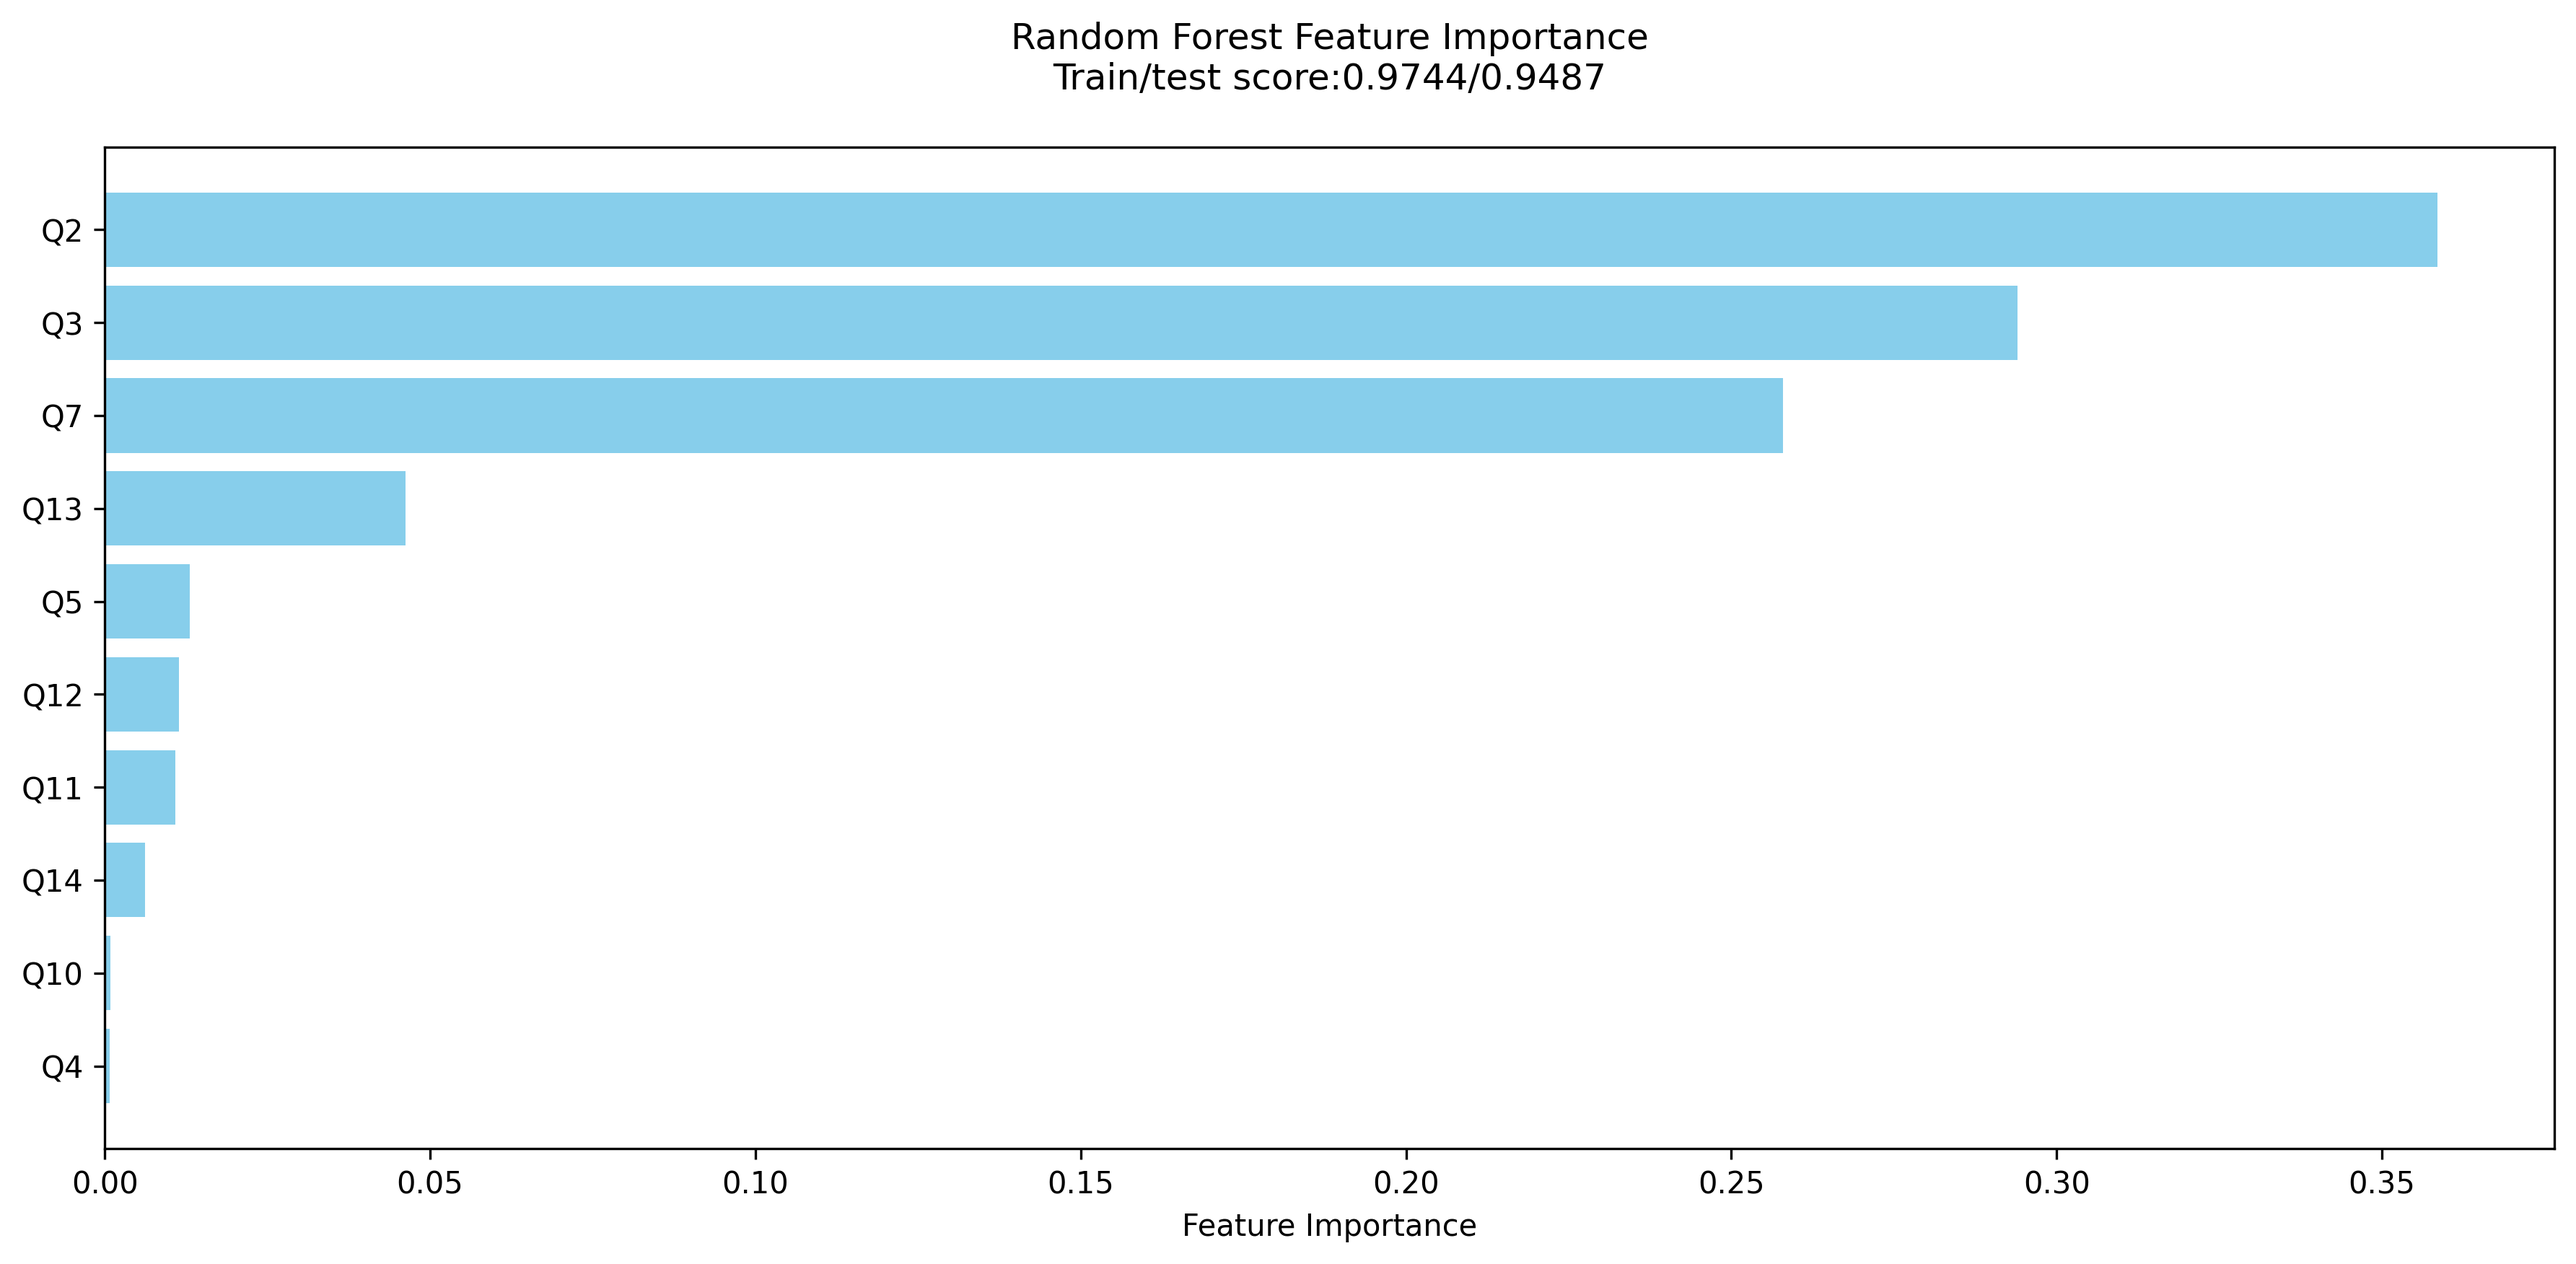
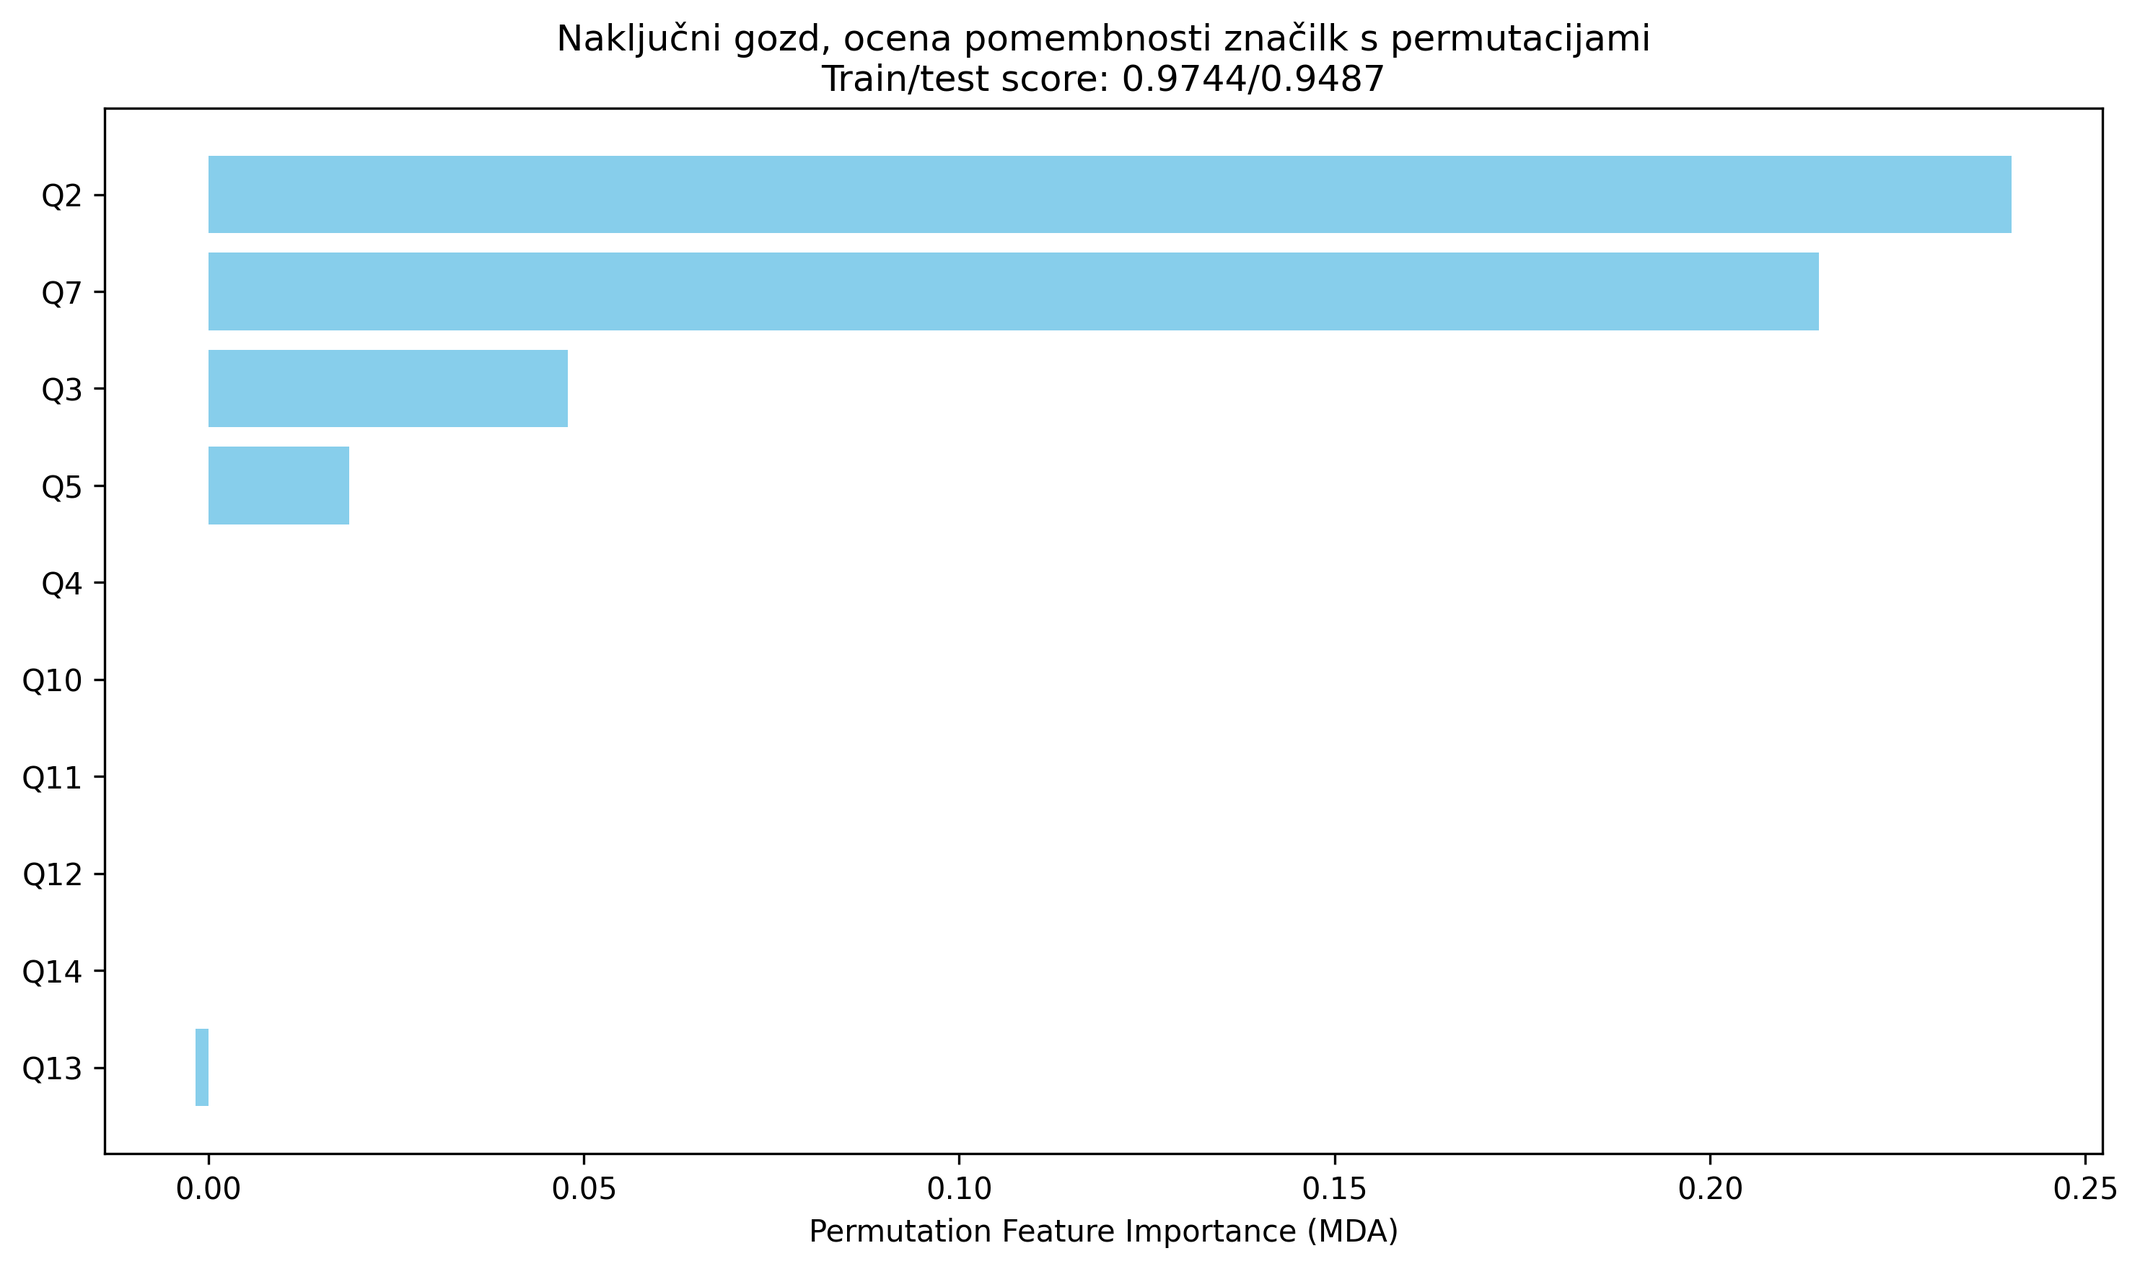
spremenil ocenjevanje za pomembnost znacilk pri nakljucnem gozdu

diff --git a/podatkovna_analiza.py b/podatkovna_analiza.py
@@ -10,6 +10,7 @@ from scipy.cluster.hierarchy import dendrogram, fcluster, linkage
 from scipy.spatial.distance import pdist, squareform
 from sklearn.decomposition import PCA
 from sklearn.ensemble import RandomForestClassifier
+from sklearn.inspection import permutation_importance
 from sklearn.manifold import TSNE
 from sklearn.metrics import silhouette_score
 from sklearn.model_selection import GridSearchCV, train_test_split
@@ -354,20 +355,41 @@ with open("print_output.txt", "w", encoding="utf-8") as f:
         train_score = best_random_forest.score(X_train, y_train)
         test_score = best_random_forest.score(X_test, y_test)
 
-        feature_importance = best_random_forest.feature_importances_
+        # Uporabim MDA namesto MDI, ker je MDI lahko pristranski
+        # do spremenljivk z vec kategorijami
+        # omejitve, kar se racunanja tice
+        perm_importance = permutation_importance(
+            best_random_forest,
+            X_test,
+            y_test,
+            n_repeats=30,  # Number of shuffles
+            random_state=42,
+            scoring="accuracy",
+        )
+
         feature_names = X.columns
-        importance_df = pd.DataFrame(
-            {"Feature": feature_names, "Importance": feature_importance}
+        importance_df_mda = pd.DataFrame(
+            {"Feature": feature_names, "Importance": perm_importance.importances_mean}
         ).sort_values(by="Importance", ascending=False)
 
-        plt.figure(figsize=(12, 6))
-        plt.barh(importance_df["Feature"], importance_df["Importance"], color="skyblue")
-        plt.xlabel("Feature Importance")
-        plt.title(
-            "Random Forest Feature Importance\n"
-            + f"Train/test score:{train_score:.4f}/{test_score:.4f}\n"
+        print("\n\nRANDOM FOREST - POMEMBNOST ZNACILK (MDA):")
+        # Pokazi vse vrednosti za pomembnost znacilk
+        print("Permutation Feature Importance (MDA) for all features:\n")
+        for idx, row in importance_df_mda.iterrows():
+            print(f"{row['Feature']:<25} Importance: {row['Importance']:.4f}")
+
+        plt.figure(figsize=(10, 6))
+        plt.barh(
+            importance_df_mda["Feature"],
+            importance_df_mda["Importance"],
+            color="skyblue",
         )
-        plt.gca().invert_yaxis()
+        plt.xlabel("Permutation Feature Importance (MDA)")
+        plt.title(
+            "Naključni gozd, ocena pomembnosti značilk s permutacijami\n"
+            + f"Train/test score: {train_score:.4f}/{test_score:.4f}"
+        )
+        plt.gca().invert_yaxis()  # Highest importance on top
         plt.tight_layout()
         plt.savefig(
             "slike/random_forest_feature_importance.png", dpi=300, bbox_inches="tight"
